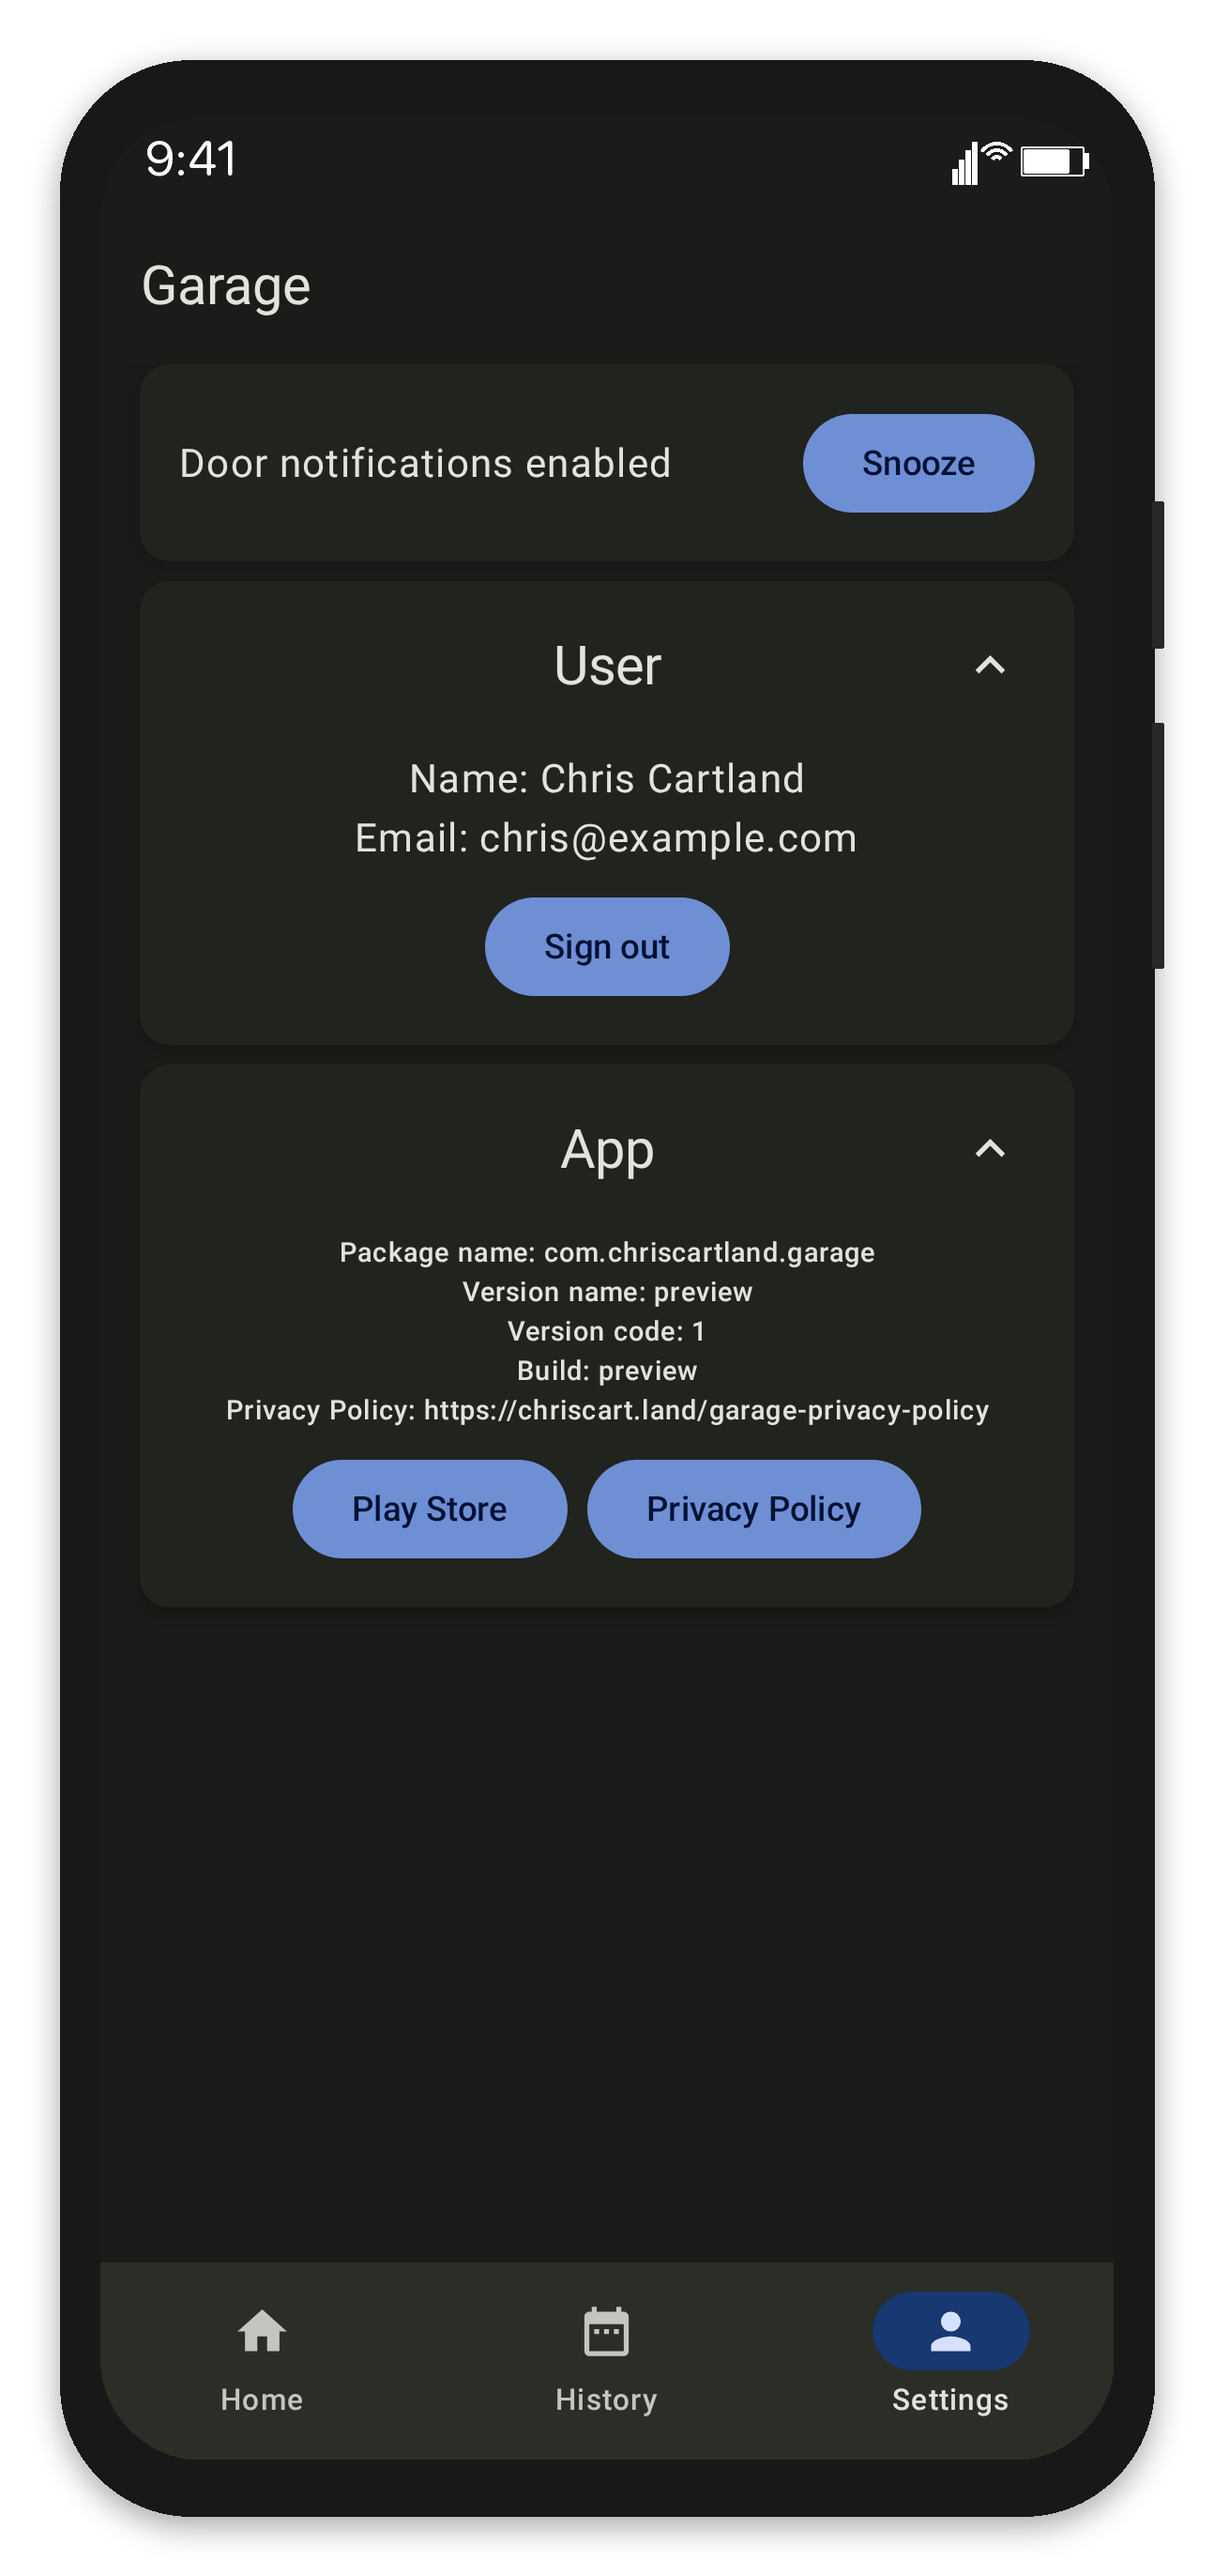
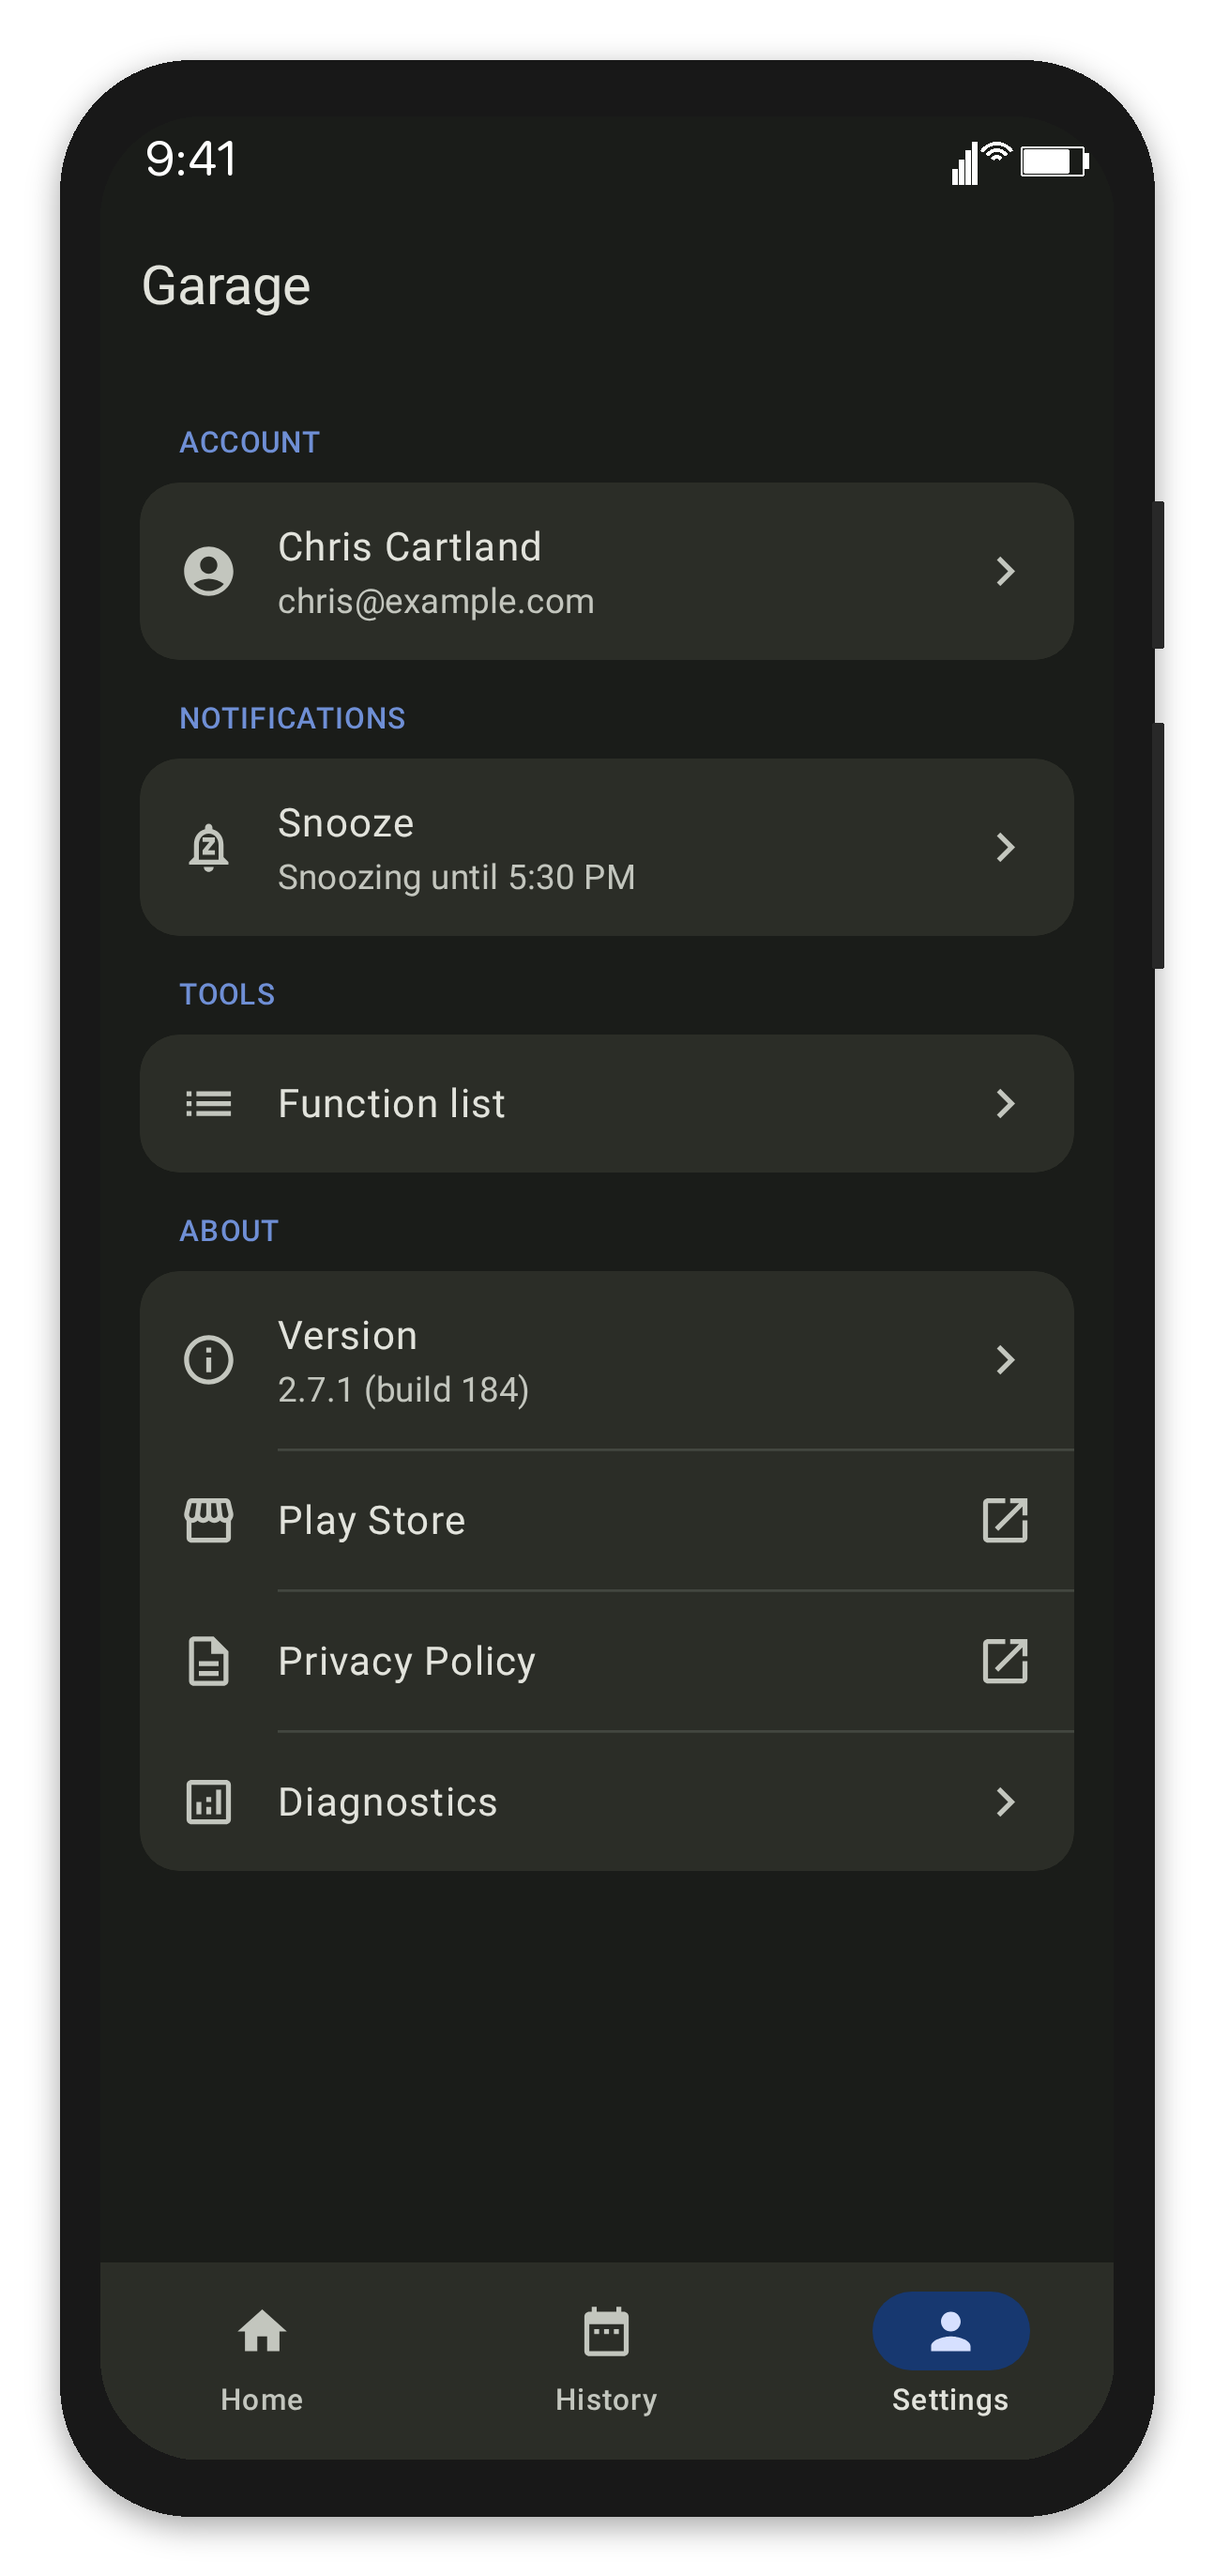
fix(screenshots): Restore Settings primary-tab framed coverage (#597)
PR #589 (Settings redesign) removed `SettingsTabPreview` on the
reasoning that the new content-only previews
(SettingsContent{SignedOut,SignedInBasic,SignedInAllowlisted}) were
sufficient. They aren't — content-only previews lack TopAppBar +
BottomNav, so:

- The framed README shot (scripts/framed-screenshots.txt entries 23-24)
  silently kept stale legacy art for ~24 hours.
- app-overview.yaml referenced three deleted previews
  (SettingsTab, UserInfoCard, SnoozeNotificationCard), generating
  three "no image found" warnings on every screenshot regen.
- The "Home + History + Settings primary tabs framed" goal in
  AndroidGarage/docs/SCREENSHOT_FRAMING_PLAN.md was quietly broken.

Restores parity:
- Add `SettingsTabPreview` wrapping `SettingsContent` (allowlisted
  state — signed in, active snooze, Tools section, Diagnostics row)
  in `TabPreviewScaffold(Screen.Profile)`. Mirrors how `HomeTabPreview`
  and `HistoryTabPreview` work.
- Add `SettingsTabPreviewTest` (Light + Dark) to ScreensScreenshotTest.
- Update `app-overview.yaml` Settings-component rows to point at the
  new redesign tests (AccountSheetContentSignedIn, SnoozeSheetContentActive).
- Regenerated framed PNGs (settings_tab_light/dark) — now show the
  redesigned sectioned list with full chrome.

Verified: 108 total screenshots, 0 blank, 0 missing-image warnings,
spotlessCheck + compileDebugKotlin pass.

diff --git a/AndroidGarage/androidApp/src/main/java/com/chriscartland/garage/ui/TabPreviews.kt b/AndroidGarage/androidApp/src/main/java/com/chriscartland/garage/ui/TabPreviews.kt
@@ -38,6 +38,9 @@ import com.chriscartland.garage.domain.model.FirebaseIdToken
 import com.chriscartland.garage.domain.model.LoadingResult
 import com.chriscartland.garage.domain.model.User
 import com.chriscartland.garage.presentation.demoDoorEvents
+import com.chriscartland.garage.ui.settings.AccountRowState
+import com.chriscartland.garage.ui.settings.SettingsContent
+import com.chriscartland.garage.ui.settings.SnoozeRowState
 import com.google.accompanist.permissions.ExperimentalPermissionsApi
 import com.google.accompanist.permissions.PermissionState
 import com.google.accompanist.permissions.PermissionStatus
@@ -188,8 +191,22 @@ fun FunctionListScreenDeniedPreview() {
     }
 }
 
-// SettingsTabPreview removed in the Settings redesign — the new
-// SettingsContent has its own dedicated screenshot tests in
-// SettingsRedesignScreenshotTest.kt covering signed-out, signed-in,
-// and signed-in-allowlisted variants. A tab-scaffold-wrapped variant
-// would just re-test the same surfaces.
+@Preview(showBackground = true)
+@Composable
+fun SettingsTabPreview() {
+    TabPreviewScaffold(selectedScreen = Screen.Profile) { modifier ->
+        SettingsContent(
+            modifier = modifier,
+            accountState = AccountRowState.SignedIn(
+                displayName = "Chris Cartland",
+                email = "chris@example.com",
+            ),
+            snoozeState = SnoozeRowState.SnoozingUntil("5:30 PM"),
+            showSnoozeRow = true,
+            showToolsSection = true,
+            showDiagnosticsRow = true,
+            versionName = "2.7.1",
+            versionCode = "184",
+        )
+    }
+}

diff --git a/AndroidGarage/android-screenshot-tests/src/screenshotTest/kotlin/com/chriscartland/garage/screenshottests/ScreensScreenshotTest.kt b/AndroidGarage/android-screenshot-tests/src/screenshotTest/kotlin/com/chriscartland/garage/screenshottests/ScreensScreenshotTest.kt
@@ -11,6 +11,7 @@ import com.chriscartland.garage.ui.FunctionListScreenPreview
 import com.chriscartland.garage.ui.HistoryTabPreview
 import com.chriscartland.garage.ui.HomeContentPreview
 import com.chriscartland.garage.ui.HomeTabPreview
+import com.chriscartland.garage.ui.SettingsTabPreview
 import com.chriscartland.garage.ui.theme.AppTheme
 
 @PreviewTest
@@ -66,6 +67,20 @@ fun HomeTabPreviewTest() {
 fun HistoryTabPreviewTest() {
     AppTheme {
         HistoryTabPreview()
+    }
+}
+
+@PreviewTest
+@Preview(showBackground = true, name = "Light")
+@Preview(
+    showBackground = true,
+    name = "Dark",
+    uiMode = android.content.res.Configuration.UI_MODE_NIGHT_YES,
+)
+@Composable
+fun SettingsTabPreviewTest() {
+    AppTheme {
+        SettingsTabPreview()
     }
 }
 

diff --git a/AndroidGarage/android-screenshot-tests/collections/app-overview.md b/AndroidGarage/android-screenshot-tests/collections/app-overview.md
@@ -5,18 +5,18 @@
 
 1. Home tab — door status + button
 2. History tab — recent events
-3. Settings tab — user profile + snooze
+3. Settings tab — sectioned list (account, snooze, tools, about)
 4. Button: ready
 5. Button: confirm
 6. Button: sending to server
 7. Button: success
 8. Button: server failed
 9. Door status card
-10. User info card
-11. Snooze notifications
+10. Account half-sheet — signed in
+11. Snooze half-sheet — active
 12. Door: closed
 13. Door: open
 14. Door: opening
 
-<img src="../src/screenshotTestDebug/reference/com/chriscartland/garage/screenshottests/ScreensScreenshotTestKt/HomeTabPreviewTest_Light_fc5b723e_0.png" alt="Home tab — door status + button" width="200" /> <img src="../src/screenshotTestDebug/reference/com/chriscartland/garage/screenshottests/ScreensScreenshotTestKt/HistoryTabPreviewTest_Light_fc5b723e_0.png" alt="History tab — recent events" width="200" /> <img src="../src/screenshotTestDebug/reference/com/chriscartland/garage/screenshottests/ComponentsScreenshotTestKt/RemoteButtonContentPreviewTest_Light_fc5b723e_0.png" alt="Button: ready" width="200" /> <img src="../src/screenshotTestDebug/reference/com/chriscartland/garage/screenshottests/ComponentsScreenshotTestKt/RemoteButtonContentAwaitingConfirmationPreviewTest_Light_fc5b723e_0.png" alt="Button: confirm" width="200" /> <img src="../src/screenshotTestDebug/reference/com/chriscartland/garage/screenshottests/ComponentsScreenshotTestKt/RemoteButtonContentSendingToServerPreviewTest_Light_fc5b723e_0.png" alt="Button: sending to server" width="200" /> <img src="../src/screenshotTestDebug/reference/com/chriscartland/garage/screenshottests/ComponentsScreenshotTestKt/RemoteButtonContentSucceededPreviewTest_Light_fc5b723e_0.png" alt="Button: success" width="200" /> <img src="../src/screenshotTestDebug/reference/com/chriscartland/garage/screenshottests/ComponentsScreenshotTestKt/RemoteButtonContentServerFailedPreviewTest_Light_fc5b723e_0.png" alt="Button: server failed" width="200" /> <img src="../src/screenshotTestDebug/reference/com/chriscartland/garage/screenshottests/ComponentsScreenshotTestKt/DoorStatusCardPreviewTest_Light_fc5b723e_0.png" alt="Door status card" width="200" /> <img src="../src/screenshotTestDebug/reference/com/chriscartland/garage/screenshottests/GarageDoorScreenshotTestKt/GarageDoorClosedPreviewTest_Light_fc5b723e_0.png" alt="Door: closed" width="200" /> <img src="../src/screenshotTestDebug/reference/com/chriscartland/garage/screenshottests/GarageDoorScreenshotTestKt/GarageDoorOpenPreviewTest_Light_fc5b723e_0.png" alt="Door: open" width="200" /> <img src="../src/screenshotTestDebug/reference/com/chriscartland/garage/screenshottests/GarageDoorScreenshotTestKt/GarageDoorOpeningPreviewTest_Light_fc5b723e_0.png" alt="Door: opening" width="200" /> 
+<img src="../src/screenshotTestDebug/reference/com/chriscartland/garage/screenshottests/ScreensScreenshotTestKt/HomeTabPreviewTest_Light_fc5b723e_0.png" alt="Home tab — door status + button" width="200" /> <img src="../src/screenshotTestDebug/reference/com/chriscartland/garage/screenshottests/ScreensScreenshotTestKt/HistoryTabPreviewTest_Light_fc5b723e_0.png" alt="History tab — recent events" width="200" /> <img src="../src/screenshotTestDebug/reference/com/chriscartland/garage/screenshottests/ScreensScreenshotTestKt/SettingsTabPreviewTest_Light_fc5b723e_0.png" alt="Settings tab — sectioned list (account, snooze, tools, about)" width="200" /> <img src="../src/screenshotTestDebug/reference/com/chriscartland/garage/screenshottests/ComponentsScreenshotTestKt/RemoteButtonContentPreviewTest_Light_fc5b723e_0.png" alt="Button: ready" width="200" /> <img src="../src/screenshotTestDebug/reference/com/chriscartland/garage/screenshottests/ComponentsScreenshotTestKt/RemoteButtonContentAwaitingConfirmationPreviewTest_Light_fc5b723e_0.png" alt="Button: confirm" width="200" /> <img src="../src/screenshotTestDebug/reference/com/chriscartland/garage/screenshottests/ComponentsScreenshotTestKt/RemoteButtonContentSendingToServerPreviewTest_Light_fc5b723e_0.png" alt="Button: sending to server" width="200" /> <img src="../src/screenshotTestDebug/reference/com/chriscartland/garage/screenshottests/ComponentsScreenshotTestKt/RemoteButtonContentSucceededPreviewTest_Light_fc5b723e_0.png" alt="Button: success" width="200" /> <img src="../src/screenshotTestDebug/reference/com/chriscartland/garage/screenshottests/ComponentsScreenshotTestKt/RemoteButtonContentServerFailedPreviewTest_Light_fc5b723e_0.png" alt="Button: server failed" width="200" /> <img src="../src/screenshotTestDebug/reference/com/chriscartland/garage/screenshottests/ComponentsScreenshotTestKt/DoorStatusCardPreviewTest_Light_fc5b723e_0.png" alt="Door status card" width="200" /> <img src="../src/screenshotTestDebug/reference/com/chriscartland/garage/screenshottests/SettingsRedesignScreenshotTestKt/AccountSheetContentSignedInPreviewTest_Light_fc5b723e_0.png" alt="Account half-sheet — signed in" width="200" /> <img src="../src/screenshotTestDebug/reference/com/chriscartland/garage/screenshottests/SettingsRedesignScreenshotTestKt/SnoozeSheetContentActivePreviewTest_Light_fc5b723e_0.png" alt="Snooze half-sheet — active" width="200" /> <img src="../src/screenshotTestDebug/reference/com/chriscartland/garage/screenshottests/GarageDoorScreenshotTestKt/GarageDoorClosedPreviewTest_Light_fc5b723e_0.png" alt="Door: closed" width="200" /> <img src="../src/screenshotTestDebug/reference/com/chriscartland/garage/screenshottests/GarageDoorScreenshotTestKt/GarageDoorOpenPreviewTest_Light_fc5b723e_0.png" alt="Door: open" width="200" /> <img src="../src/screenshotTestDebug/reference/com/chriscartland/garage/screenshottests/GarageDoorScreenshotTestKt/GarageDoorOpeningPreviewTest_Light_fc5b723e_0.png" alt="Door: opening" width="200" /> 
 

diff --git a/AndroidGarage/android-screenshot-tests/SCREENSHOT_GALLERY.md b/AndroidGarage/android-screenshot-tests/SCREENSHOT_GALLERY.md
@@ -2,7 +2,7 @@
 
 # Screenshot Gallery
 
-Generated on Wed Apr 29 03:31:10 PDT 2026
+Generated on Wed Apr 29 04:22:13 PDT 2026
 
 ## Table of Contents
 - [ComponentsScreenshotTestKt](#componentsscreenshottestkt)
@@ -286,6 +286,12 @@ Generated on Wed Apr 29 03:31:10 PDT 2026
 
 ### HomeTabPreviewTest_Light_fc5b723e_0
 <img src="src/screenshotTestDebug/reference/com/chriscartland/garage/screenshottests/ScreensScreenshotTestKt/HomeTabPreviewTest_Light_fc5b723e_0.png" width="300" />
+
+### SettingsTabPreviewTest_Dark_77106447_0
+<img src="src/screenshotTestDebug/reference/com/chriscartland/garage/screenshottests/ScreensScreenshotTestKt/SettingsTabPreviewTest_Dark_77106447_0.png" width="300" />
+
+### SettingsTabPreviewTest_Light_fc5b723e_0
+<img src="src/screenshotTestDebug/reference/com/chriscartland/garage/screenshottests/ScreensScreenshotTestKt/SettingsTabPreviewTest_Light_fc5b723e_0.png" width="300" />
 
 ## SettingsRedesignScreenshotTestKt
 
